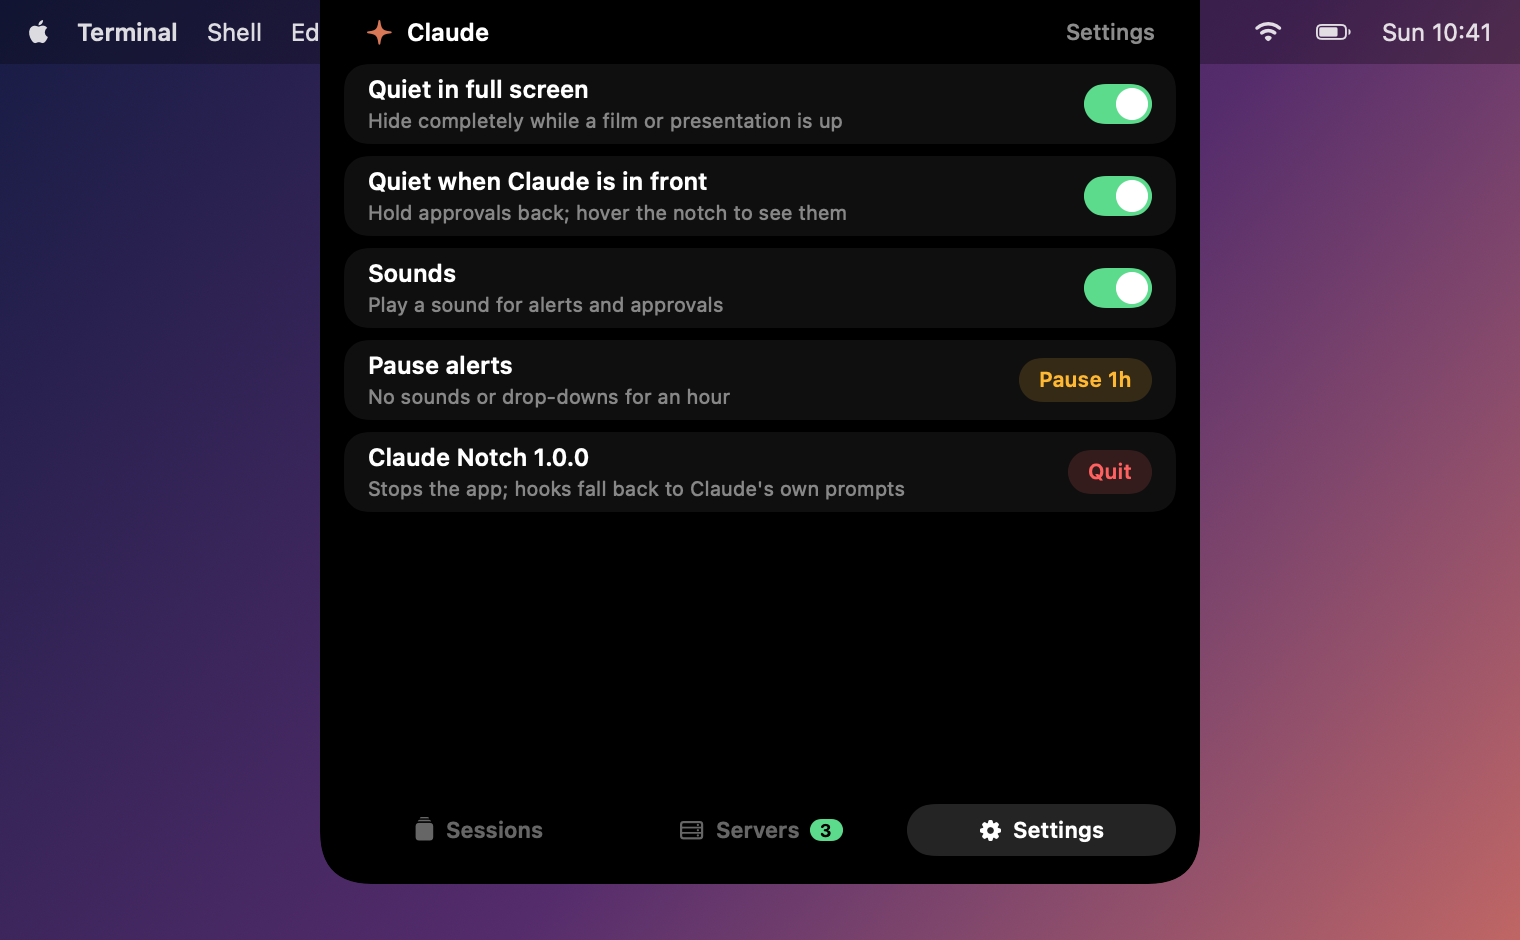
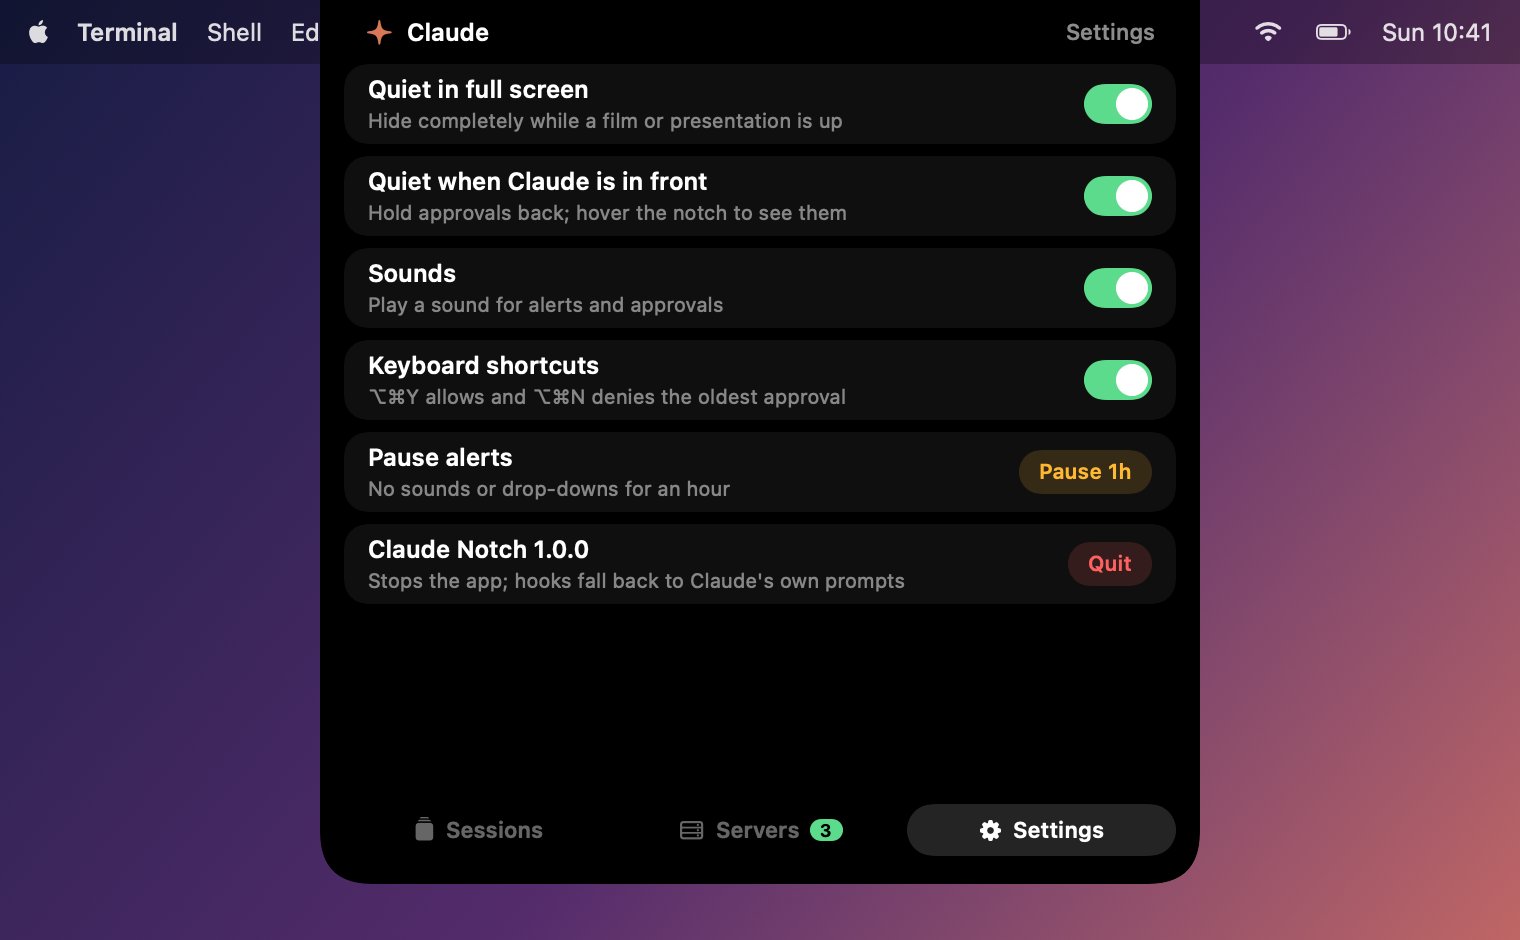
Keyboard shortcuts for approvals (⌥⌘Y allow, ⌥⌘N deny)
Held-back cards are revealed first; a quick second press is ignored.

diff --git a/Sources/ClaudeNotch/NotchModel.swift b/Sources/ClaudeNotch/NotchModel.swift
@@ -52,6 +52,7 @@ final class NotchModel: ObservableObject {
         self.isFullScreenAppActive = isFullScreenAppActive
         self.frontmostBundleID = frontmostBundleID
         self.soundsEnabled = preferences.object(forKey: Self.soundsKey) as? Bool ?? true
+        self.shortcutsEnabled = preferences.object(forKey: Self.shortcutsKey) as? Bool ?? true
         self.policy = QuietPolicy(quietInFullScreen: preferences.object(forKey: Self.quietInFullScreenKey) as? Bool ?? true,
                                   quietWhenClaudeInFront: preferences.object(forKey: Self.quietWhenClaudeInFrontKey) as? Bool ?? true)
     }
@@ -86,6 +87,7 @@ final class NotchModel: ObservableObject {
 
     private static let quietInFullScreenKey = "quietInFullScreen"
     private static let soundsKey = "soundsEnabled"
+    private static let shortcutsKey = "shortcutsEnabled"
 
     @Published private(set) var soundsEnabled = true
 
@@ -221,6 +223,39 @@ final class NotchModel: ObservableObject {
 
     func answer(_ request: PermissionRequest, _ decision: PermissionDecision) {
         broker.respond(to: request, with: decision)
+    }
+
+    // MARK: Keyboard shortcuts
+
+    @Published private(set) var shortcutsEnabled = true
+    /// Another app already owns one of the shortcut keys.
+    @Published private(set) var shortcutsConflict = false
+
+    func shortcutsRegistered(_ accepted: Int, of total: Int) {
+        shortcutsConflict = accepted < total
+    }
+    private var lastShortcutAnswer: Date?
+
+    func setShortcutsEnabled(_ enabled: Bool) {
+        shortcutsEnabled = enabled
+        preferences.set(enabled, forKey: Self.shortcutsKey)
+    }
+
+    /// Allow or Deny from the keyboard. With the cards held back, the first press only shows them.
+    func answerFromKeyboard(_ decision: PermissionDecision) {
+        let now = Date()
+        switch ApprovalShortcut.action(requestsWaiting: !requests.isEmpty, cardsShowing: mode == .request,
+                                       hidden: presence == .hidden, lastAnswer: lastShortcutAnswer, now: now) {
+        case .ignore:
+            return
+        case .reveal:
+            pendingCollapse?.cancel()
+            withAnimation(Motion.alert) { mode = .request }
+        case .answer:
+            guard let first = requests.first else { return }
+            lastShortcutAnswer = now
+            answer(first, decision)
+        }
     }
 
     /// Opens a session in the Claude desktop app; for terminal sessions, copies the resume command instead.

diff --git a/Sources/ClaudeNotch/AppDelegate.swift b/Sources/ClaudeNotch/AppDelegate.swift
@@ -1,6 +1,7 @@
 import SwiftUI
 import AppKit
 import Combine
+import Carbon.HIToolbox
 import NotchCore
 
 final class AppDelegate: NSObject, NSApplicationDelegate {
@@ -8,6 +9,8 @@ final class AppDelegate: NSObject, NSApplicationDelegate {
     private var model: NotchModel?
     private var pointerTimer: Timer?
     private var presenceObserver: AnyCancellable?
+    private let hotKeys = GlobalHotKeys()
+    private var shortcutsObserver: AnyCancellable?
 
     func applicationDidFinishLaunching(_ notification: Notification) {
         let screen = Self.notchScreen()
@@ -32,6 +35,22 @@ final class AppDelegate: NSObject, NSApplicationDelegate {
             panel?.ignoresMouseEvents = presence == .hidden
         }
 
+        // ⌥⌘N denies and ⌥⌘Y allows the oldest waiting approval (see ApprovalShortcut for the safeguards).
+        shortcutsObserver = model.$shortcutsEnabled.receive(on: DispatchQueue.main).sink { [weak self, weak model] enabled in
+            guard enabled, let model else {
+                self?.hotKeys.unregister()
+                model?.shortcutsRegistered(2, of: 2)
+                Self.recordShortcutStatus("off")
+                return
+            }
+            let modifiers = optionKey | cmdKey
+            let accepted = self?.hotKeys.register([
+                .init(keyCode: kVK_ANSI_N, modifiers: modifiers) { model.answerFromKeyboard(.deny) },
+                .init(keyCode: kVK_ANSI_Y, modifiers: modifiers) { model.answerFromKeyboard(.allow) },
+            ]) ?? 0
+            model.shortcutsRegistered(accepted, of: 2)
+            Self.recordShortcutStatus(accepted == 2 ? "active" : "conflict (\(accepted) of 2 keys registered)")
+        }
         model.start()
         if ProcessInfo.processInfo.environment["CLAUDE_NOTCH_EXPANDED"] != nil { model.forceExpanded() }
         trackPointer(on: screen)
@@ -65,6 +84,11 @@ final class AppDelegate: NSObject, NSApplicationDelegate {
             }
             panel.ignoresMouseEvents = !(hovering && NotchGeometry.acceptsClicks(in: model.mode))
         }
+    }
+
+    /// So `ClaudeNotch status` can say whether the shortcuts took (another app may own the keys).
+    private static func recordShortcutStatus(_ text: String) {
+        try? text.write(to: Paths.live.shortcutStatus, atomically: true, encoding: .utf8)
     }
 
     // MARK: Screen

diff --git a/Sources/ClaudeNotch/GlobalHotKeys.swift b/Sources/ClaudeNotch/GlobalHotKeys.swift
@@ -1,0 +1,57 @@
+import AppKit
+import Carbon.HIToolbox
+
+/// System-wide keyboard shortcuts. Uses the Carbon hot key API, which needs no Accessibility permission and never
+/// sees any other keystrokes.
+final class GlobalHotKeys {
+    struct Shortcut {
+        let keyCode: Int
+        let modifiers: Int
+        let handler: () -> Void
+    }
+
+    private var refs: [EventHotKeyRef] = []
+    private var handlers: [UInt32: () -> Void] = [:]
+    private var eventHandler: EventHandlerRef?
+
+    /// Registers the shortcuts; returns how many the system accepted (another app may already own one).
+    @discardableResult
+    func register(_ shortcuts: [Shortcut]) -> Int {
+        unregister()
+        installEventHandler()
+        for (index, shortcut) in shortcuts.enumerated() {
+            let id = UInt32(index + 1)
+            var ref: EventHotKeyRef?
+            let hotKeyID = EventHotKeyID(signature: OSType(0x434E4348), id: id)   // 'CNCH'
+            guard RegisterEventHotKey(UInt32(shortcut.keyCode), UInt32(shortcut.modifiers), hotKeyID, GetApplicationEventTarget(), 0, &ref) == noErr,
+                  let ref else { continue }
+            refs.append(ref)
+            handlers[id] = shortcut.handler
+        }
+        return refs.count
+    }
+
+    func unregister() {
+        refs.forEach { UnregisterEventHotKey($0) }
+        refs = []
+        handlers = [:]
+    }
+
+    private func installEventHandler() {
+        guard eventHandler == nil else { return }
+        var spec = EventTypeSpec(eventClass: OSType(kEventClassKeyboard), eventKind: UInt32(kEventHotKeyPressed))
+        InstallEventHandler(GetApplicationEventTarget(), { _, event, userData in
+            guard let event, let userData else { return noErr }
+            var hotKeyID = EventHotKeyID()
+            GetEventParameter(event, EventParamName(kEventParamDirectObject), EventParamType(typeEventHotKeyID), nil,
+                              MemoryLayout<EventHotKeyID>.size, nil, &hotKeyID)
+            Unmanaged<GlobalHotKeys>.fromOpaque(userData).takeUnretainedValue().handlers[hotKeyID.id]?()
+            return noErr
+        }, 1, &spec, Unmanaged.passUnretained(self).toOpaque(), &eventHandler)
+    }
+
+    deinit {
+        unregister()
+        eventHandler.map { RemoveEventHandler($0) }
+    }
+}

diff --git a/Sources/ClaudeNotch/Views/RequestListView.swift b/Sources/ClaudeNotch/Views/RequestListView.swift
@@ -13,7 +13,7 @@ struct RequestListView: View {
             header(count: requests.count)
             VStack(spacing: NotchGeometry.rowSpacing) {
                 ForEach(requests.prefix(NotchGeometry.maxRequestRows)) { request in
-                    RequestRow(request: request, model: model)
+                    RequestRow(request: request, model: model, showsShortcutHint: model.shortcutsEnabled && request.id == requests.first?.id)
                         .transition(.asymmetric(insertion: .scale(scale: 0.95).combined(with: .opacity),
                                                 removal: .move(edge: .trailing).combined(with: .opacity)))
                 }
@@ -40,6 +40,7 @@ struct RequestListView: View {
 struct RequestRow: View {
     let request: PermissionRequest
     @ObservedObject var model: NotchModel
+    var showsShortcutHint = false
     @State private var hoveringAllow = false
     @State private var hoveringDeny = false
 
@@ -155,6 +156,12 @@ struct RequestRow: View {
             }
             .buttonStyle(.plain)
             Spacer(minLength: 0)
+            if showsShortcutHint {
+                Text("⌥⌘N  ⌥⌘Y")
+                    .font(.system(size: 9.5, design: .monospaced))
+                    .foregroundStyle(.white.opacity(0.3))
+                    .help("Keyboard: ⌥⌘N denies, ⌥⌘Y allows")
+            }
             Button { model.answer(request, .deny) } label: {
                 Text("Deny")
                     .font(.system(size: 11, weight: .semibold))

diff --git a/Sources/NotchCore/Models/ApprovalShortcut.swift b/Sources/NotchCore/Models/ApprovalShortcut.swift
@@ -1,0 +1,24 @@
+import Foundation
+
+/// What a keyboard shortcut for Allow / Deny should do, decided so that nothing is ever approved unseen.
+public enum ApprovalShortcut {
+    public enum Action: Equatable {
+        /// Nothing to answer, or the notch is hidden (a full-screen app is in front).
+        case ignore
+        /// The cards are held back: the first press shows them, so you see what you are about to answer.
+        case reveal
+        /// The cards are on screen: answer the oldest one.
+        case answer
+    }
+
+    /// Two answers closer together than this are one fumbled double-press: the next card has just slid in unseen.
+    public static let minimumGap: TimeInterval = 0.8
+
+    public static func action(requestsWaiting: Bool, cardsShowing: Bool, hidden: Bool,
+                              lastAnswer: Date?, now: Date) -> Action {
+        guard requestsWaiting, !hidden else { return .ignore }
+        guard cardsShowing else { return .reveal }
+        if let lastAnswer, now.timeIntervalSince(lastAnswer) < minimumGap { return .ignore }
+        return .answer
+    }
+}

diff --git a/Tests/NotchCoreTests/ApprovalShortcutTests.swift b/Tests/NotchCoreTests/ApprovalShortcutTests.swift
@@ -1,0 +1,28 @@
+import XCTest
+@testable import NotchCore
+
+final class ApprovalShortcutTests: XCTestCase {
+    private let now = Fixture.t0
+
+    private func action(waiting: Bool = true, showing: Bool = true, hidden: Bool = false, last: Date? = nil) -> ApprovalShortcut.Action {
+        ApprovalShortcut.action(requestsWaiting: waiting, cardsShowing: showing, hidden: hidden, lastAnswer: last, now: now)
+    }
+
+    func testAnswersTheOldestRequestWhenTheCardsAreOnScreen() {
+        XCTAssertEqual(action(), .answer)
+    }
+
+    func testHeldBackCardsAreRevealedFirstNeverAnsweredBlind() {
+        XCTAssertEqual(action(showing: false), .reveal)
+    }
+
+    func testNothingWaitingOrNotchHiddenDoesNothing() {
+        XCTAssertEqual(action(waiting: false), .ignore)
+        XCTAssertEqual(action(hidden: true), .ignore)
+    }
+
+    func testAFumbledDoublePressDoesNotAnswerTheNextCardUnseen() {
+        XCTAssertEqual(action(last: now.addingTimeInterval(-0.3)), .ignore)
+        XCTAssertEqual(action(last: now.addingTimeInterval(-ApprovalShortcut.minimumGap - 0.1)), .answer)
+    }
+}

diff --git a/Sources/ClaudeNotch/Views/SettingsView.swift b/Sources/ClaudeNotch/Views/SettingsView.swift
@@ -15,6 +15,8 @@ struct SettingsView: View {
                                  isOn: model.policy.quietWhenClaudeInFront) { model.setQuietWhenClaudeInFront($0) }
                 SettingSwitchRow(title: "Sounds", detail: "Play a sound for alerts and approvals",
                                  isOn: model.soundsEnabled) { model.setSoundsEnabled($0) }
+                SettingSwitchRow(title: "Keyboard shortcuts", detail: model.shortcutsConflict ? "Another app already uses ⌥⌘Y or ⌥⌘N" : "⌥⌘Y allows and ⌥⌘N denies the oldest approval",
+                                 isOn: model.shortcutsEnabled) { model.setShortcutsEnabled($0) }
                 SettingButtonRow(title: model.isPaused ? "Alerts are paused" : "Pause alerts",
                                  detail: model.isPaused ? "No sounds or drop-downs right now" : "No sounds or drop-downs for an hour",
                                  action: model.isPaused ? "Resume" : "Pause 1h", tint: Palette.amber) {

diff --git a/Sources/ClaudeNotch/CommandLine.swift b/Sources/ClaudeNotch/CommandLine.swift
@@ -87,6 +87,7 @@ enum CommandLineTool {
           Transcripts        \(fm.fileExists(atPath: paths.transcripts.path) ? "found" : "NOT FOUND") (\(sessions.count) recent session\(sessions.count == 1 ? "" : "s"))
           Hooks              \(events.isEmpty ? "not installed (run: ClaudeNotch install-hooks)" : "installed for \(events.joined(separator: ", "))")
           Servers            \(servers.isEmpty ? "none from sessions" : servers.map { ":\($0.port) \($0.name)" }.joined(separator: ", "))
+          Shortcuts          \((try? String(contentsOf: paths.shortcutStatus, encoding: .utf8)) ?? "unknown (app not running)")  [⌥⌘Y allow, ⌥⌘N deny]
           App                \(heartbeatAge.map { $0 < 6 ? "running" : "not running" } ?? "not running")
           Data directory     \(paths.notchDir.path)
         """)

diff --git a/Sources/NotchCore/Paths.swift b/Sources/NotchCore/Paths.swift
@@ -44,6 +44,8 @@ public struct Paths {
     /// Touched regularly while the app runs; the permission hook only intercepts prompts while it is fresh.
     /// Held for as long as the app runs, so a second copy knows to quit.
     public var instanceLock: URL { notchDir.appendingPathComponent("app.lock") }
+    /// Written by the app: whether the keyboard shortcuts registered.
+    public var shortcutStatus: URL { notchDir.appendingPathComponent("shortcuts") }
     public var heartbeat: URL { notchDir.appendingPathComponent("alive") }
     public var installedBinary: URL { notchDir.appendingPathComponent("bin/ClaudeNotch") }
 }

diff --git a/Sources/NotchCore/Models/NotchGeometry.swift b/Sources/NotchCore/Models/NotchGeometry.swift
@@ -51,7 +51,7 @@ public struct NotchGeometry {
     public static let requestOverflowHeight: CGFloat = 22
 
     public static let settingsRowHeight: CGFloat = 40
-    public static let settingsRowCount = 5
+    public static let settingsRowCount = 6
 
     public static let peekHeight: CGFloat = 46
     public static let peekMinWidth: CGFloat = 400

diff --git a/README.md b/README.md
@@ -34,6 +34,7 @@ Hover the notch to see every Claude Code and Claude desktop session at a glance.
 | **Hover** | One card per session: state, what it is doing right now, a **cache countdown ring**, and **context-window usage** (`212k / 1M · 21%`). |
 | **Click a card** | Opens that session in the Claude desktop app. For terminal sessions it copies `claude --resume <id>` instead. |
 | **Servers** | A green `● :5173` chip on a card means that session left a server running. Click it, or open the **Servers** tab to see every one in one list, for **Stop** (asks once; offers **Force stop** if the server ignores the polite request). Only servers a session started are listed, never your own. |
+| **Keyboard shortcuts** | **⌥⌘Y** allows and **⌥⌘N** denies the oldest waiting approval, from any app. |
 | **Quiet mode** | Disappears completely while a full-screen app (a film, a presentation) is in front: no sound, no drop-downs, nothing drawn. Or pause alerts for an hour by hand. |
 | **Approvals** | Permission prompts appear as cards with the command, a risk flag for things like `rm -rf`, and **Deny / Allow** buttons. Several sessions can wait at once. |
 
@@ -104,6 +105,8 @@ Each card has:
 - the **context bar**: tokens used out of the model's window.
 
 Use the Settings tab for the options, or right-click the list for Pause and Quit.
+
+**Keyboard shortcuts.** With approvals showing, **⌥⌘Y** allows and **⌥⌘N** denies the oldest waiting request, from any app. Two safeguards: if the cards are being held back (Claude is in front), the first press only shows them, so you never approve something unseen; and a second answer within a second of the first is ignored, so a double-press can't answer the next card before you have read it. They use the system's standard hot key API, which needs no extra permission and never sees other keystrokes. Switch them off in Settings; if another app already owns one of the keys, Settings says so and `ClaudeNotch status` reports it.
 
 **Approvals.** When Claude asks to run a tool, the notch shows the request. Allow and Deny answer Claude directly. "Ask in app" hands the prompt back to Claude's own dialog, and so does doing nothing for about 110 seconds, closing the notch app, or answering in Claude first. Questions and plan approvals are never intercepted: they need Claude's full interface.
 
